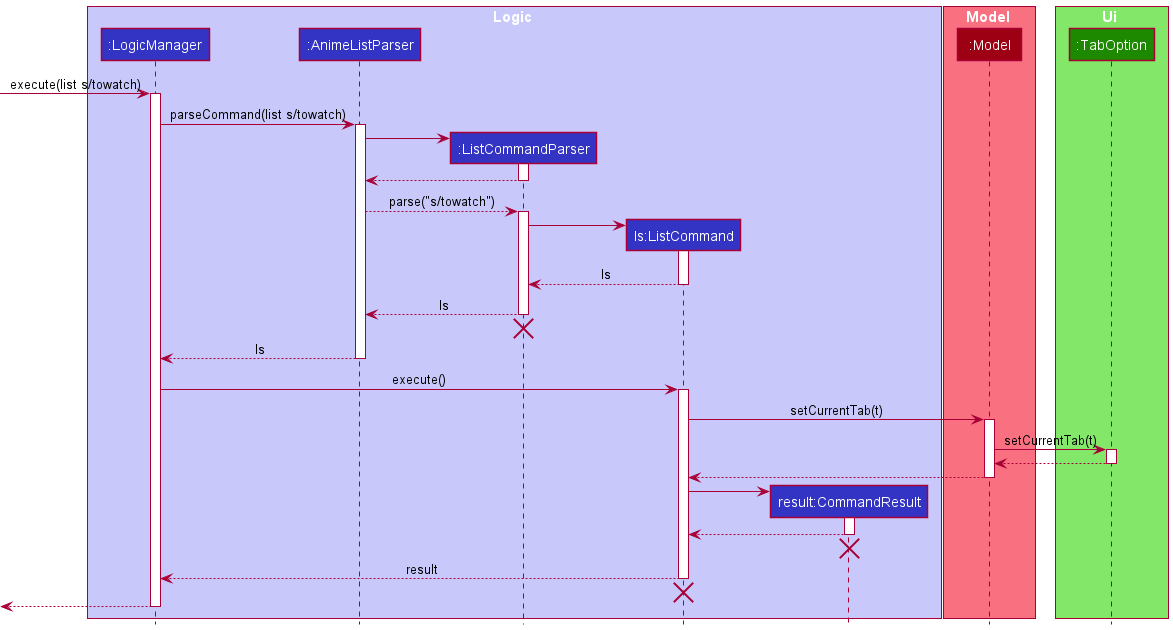
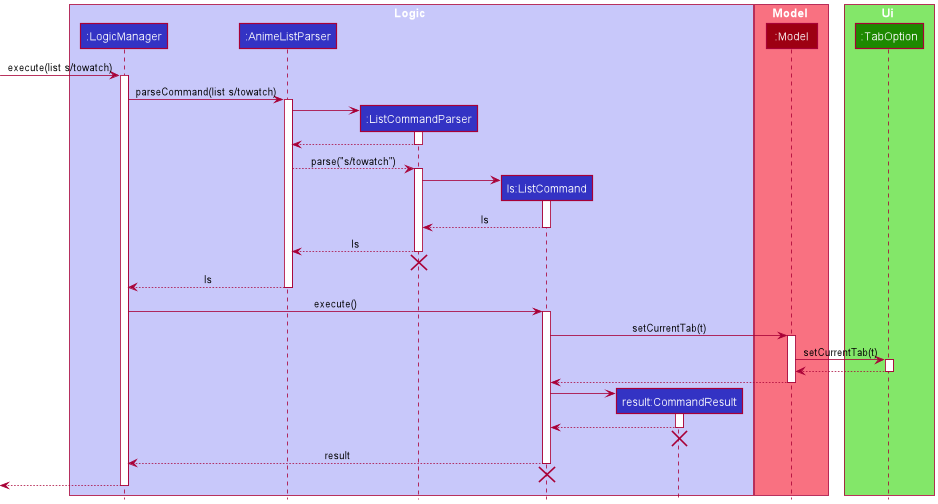
Update DG and sequence diagrams

diff --git a/docs/DeveloperGuide.md b/docs/DeveloperGuide.md
@@ -54,8 +54,6 @@ The rest of the App consists of four components.
 
 The *Sequence Diagram* below shows how the components interact with each other for the scenario where the user issues the command `delete 1`.
 
-{TODO ADD TABOPTION}
-
 <img src="images/ArchitectureSequenceDiagram.png" width="574" />
 
 Each of the four main components (also shown in the diagram above),
@@ -70,8 +68,6 @@ For example, the `Logic` component defines its API in the `Logic.java` interface
 The sections below give more details of each component.
 
 ### UI component
-
-{TODO ADD TABOPTION}
 
 The **API** of this component is specified in [`Ui.java`](https://github.com/AY2122S1-CS2103T-T10-4/tp/blob/master/src/main/java/seedu/anilist/ui/Ui.java)
 
@@ -103,8 +99,6 @@ How the `Logic` component works:
 1. The result of the command execution is encapsulated as a `CommandResult` object which is returned back from `Logic`.
 
 The Sequence Diagram below illustrates the interactions within the `Logic` component for the `execute("delete 1")` API call.
-
-{TODO ADD DISCLAIMER ABOUT TABOPTION?}
 
 ![Interactions Inside the Logic Component for the `delete 1` Command](images/DeleteSequenceDiagram.png)
 
@@ -202,7 +196,7 @@ The last command executed by the user is stored internally as a `Command` in `Lo
 last command requires a user confirmation. If this is the case, the `Parser` parses the next user input
 as a confirmation message instead.
 
-{To be added later LUODAN}
+{To be added later}
 
 #### Design considerations:
 
@@ -228,7 +222,7 @@ as a confirmation message instead.
 The proposed find mechanism is implemented through the use of 2 `Predicate<Anime>`, one for the tab options and one for
 regular filter.
 
-{To be added later RYAN}
+{To be added later}
 
 #### Design considerations:
 
